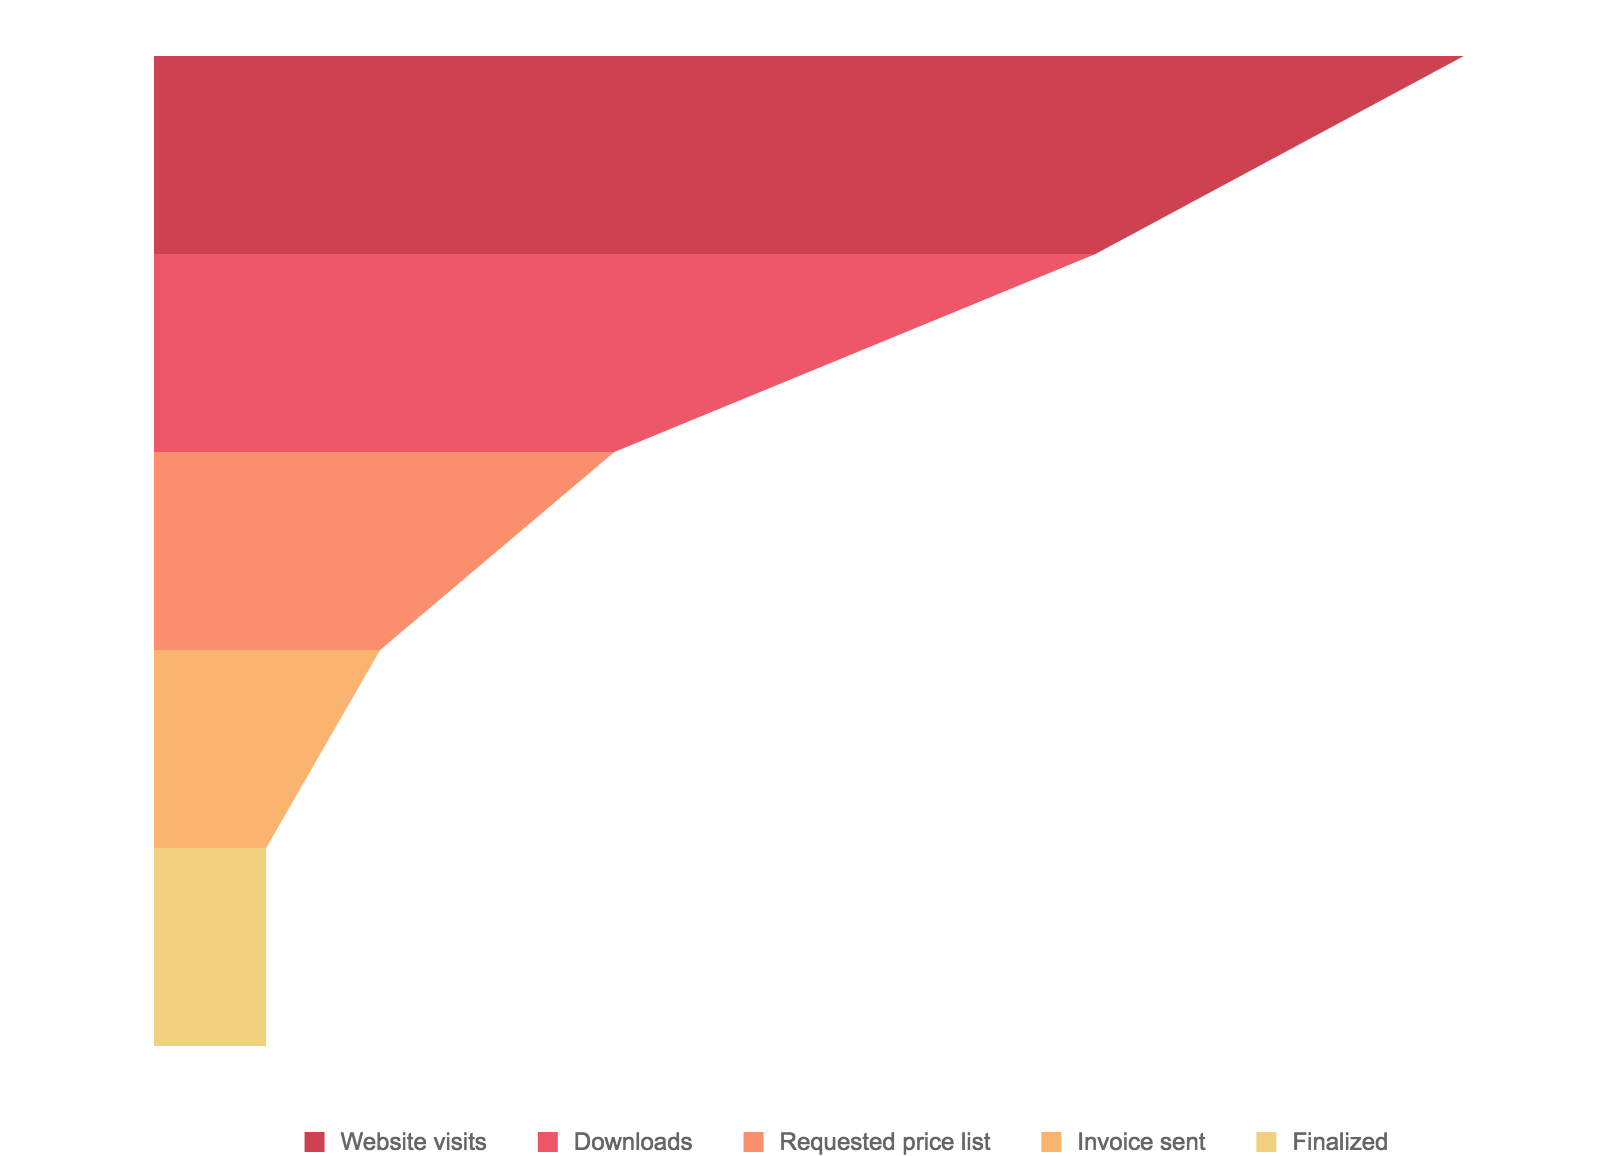
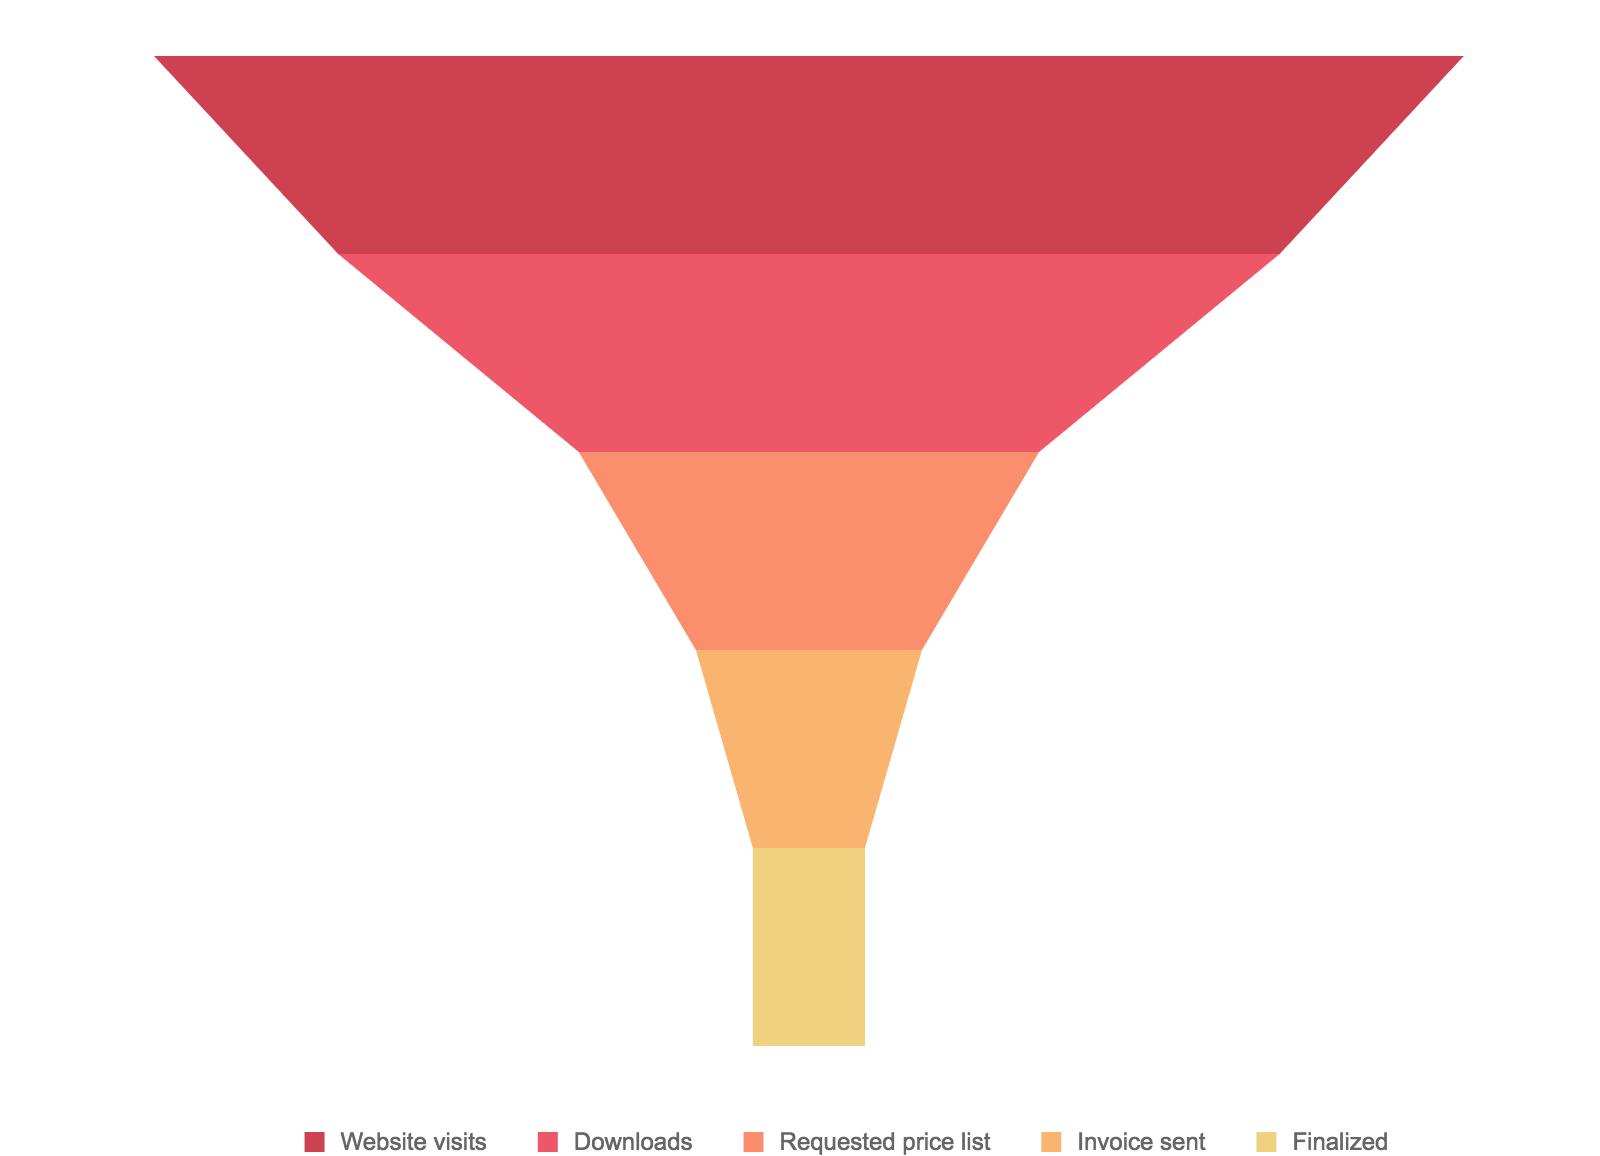
bugfix in funnel demo

Changed region(s): [[0.0938, 0.0623, 0.9062, 0.9031]]

diff --git a/demos/funnel.html b/demos/funnel.html
@@ -33,8 +33,8 @@
     chart.legend('action', {
       position: 'bottom'
     });
-    chart.interval()
-      .position('action*value', 'symmetric')
+    chart.intervalSymmetric()
+      .position('action*value')
       .color('action', [ '#C82B3D', '#EB4456', '#F9815C', '#F8AB60', '#EDCC72' ])
       .shape('funnel');
     chart.render();
